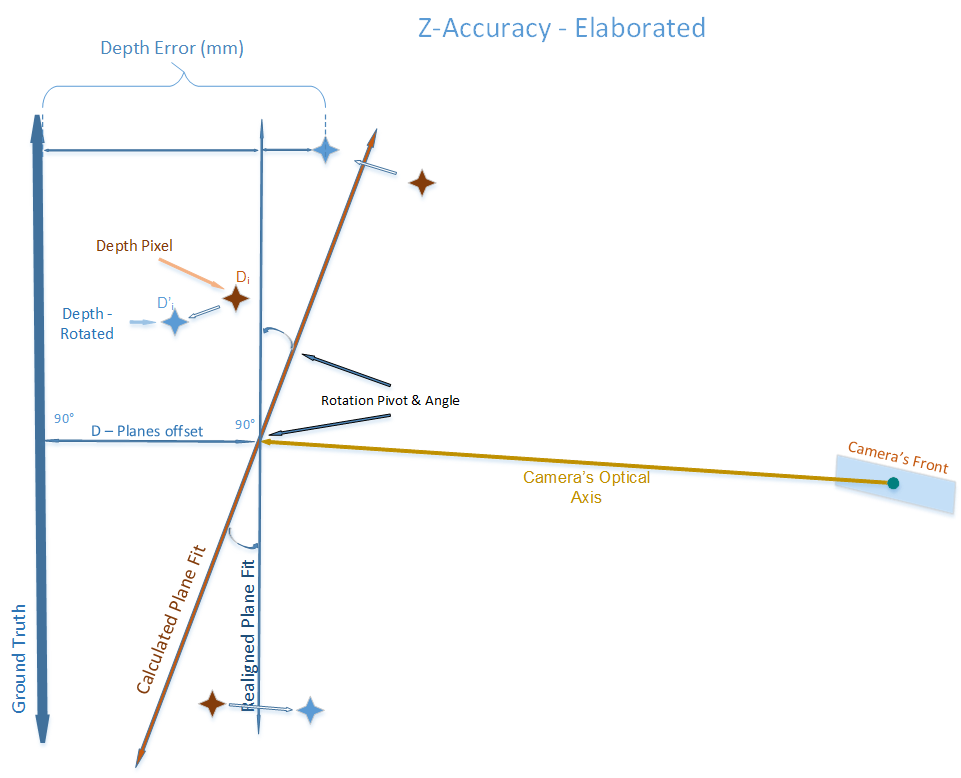
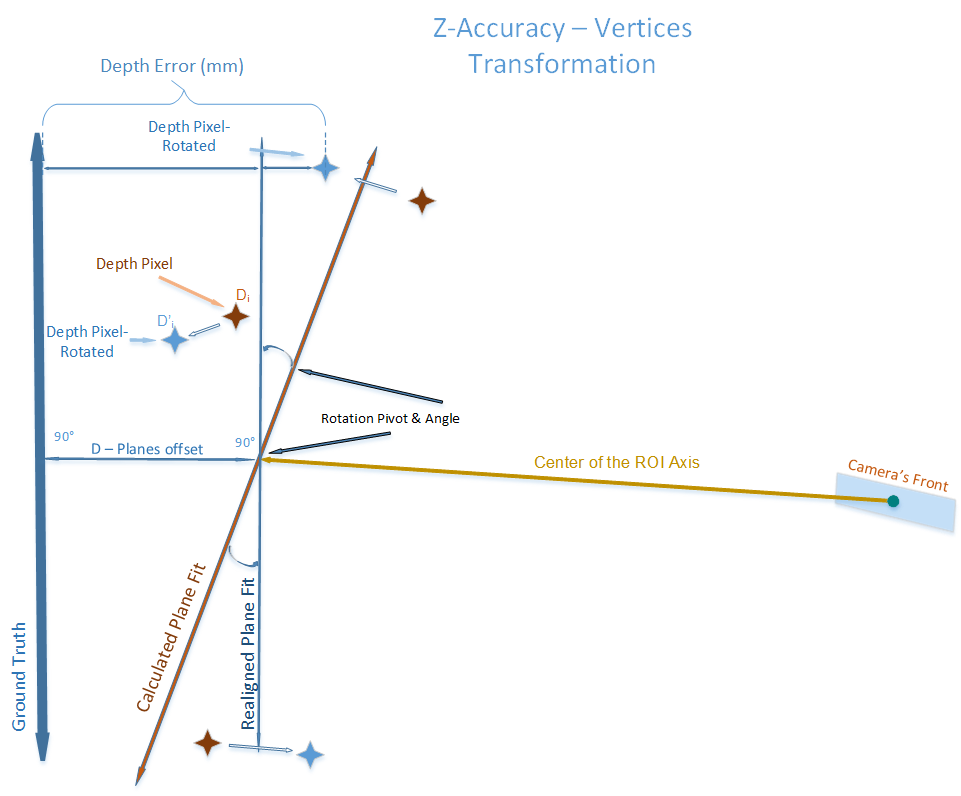
Modify Z-accuracy description due to modification of the Plane Fit pivoting point to center of ROI Revert version number to the trunk 2.4.10

diff --git a/include/librealsense2/rs.h b/include/librealsense2/rs.h
@@ -25,7 +25,7 @@ extern "C" {
 #define RS2_API_MAJOR_VERSION    2
 #define RS2_API_MINOR_VERSION    10
 #define RS2_API_PATCH_VERSION    4
-#define RS2_API_BUILD_VERSION    2
+#define RS2_API_BUILD_VERSION    0
 
 #define STRINGIFY(arg) #arg
 #define VAR_ARG_STRING(arg) STRINGIFY(arg)

diff --git a/tools/depth-quality/readme.md b/tools/depth-quality/readme.md
@@ -2,17 +2,21 @@
 
 <p align="center"><img src="https://raw.githubusercontent.com/wiki/IntelRealSense/librealsense/res/depth-quality-glimpse.gif" /></p>
 
+
 ## Overview
 
 This application allows you to test the camera’s depth quality, including: Z-Accuracy, Sub-Pixel and Z RMS errors (spatial noise) and Fill Rate.
 You should be able to easily get and interpret several of the depth quality metrics, or record and save the data for offline analysis.
 <br>Please refer to [RealSense DepthQualityTesting White Paper](https://www.intel.com/content/dam/support/us/en/documents/emerging-technologies/intel-realsense-technology/RealSense_DepthQualityTesting.pdf) for further information.
 
+
 ## Quick Start
 * Position the depth camera within a range of 0.3 - 2 meter from a flat non-reflective surface.
 * Aim the camera to the target and hold it steady for several seconds till the tool is able to recognize the surface (the yellow grid in 3D view).
 * Adjust the camera using the "Angle" metric to minimize the skew and make it as  perpendicular to the surface as possible.
 * Inspect the calculated depth quality metrics, expand the metric properties to get more in-depth info.
+* In order to get Z-Accuracy, enable the "Ground Truth" field in UI and modify it with the value obtained/measured with external tools
+* Click on "Start_record" to collect both the metrics and the raw data for offline analysis.  
 
 ## Features
 * 2D/3D Depth View
@@ -28,11 +32,15 @@ You should be able to easily get and interpret several of the depth quality metr
 * Export metrics and device configuration
 * Depth Sensor controls
 
-## Metrics elaborated
+## Depth Metrics elaborated
 ![](./res/Zi_ZPi.png)
 
+### Fill Rate
+the percentage of valid (non-zero) pixels within the user-defined Region of Interest (ROI) area.
+
 ### Plane Fit RMS Error
-_Dist<sub>i</sub>_ - Distance from pixel coordinates to the Plane Fit (mm)  
+the metrics represents depth pixels deviation from the calculated Plane Fit.
+_Dist<sub>i</sub>_ - Distance from depth pixel coordinates to the Plane Fit (mm).  
 ![](./res/z_error_rms.gif)
 
 ### Sub-Pixel RMS Error
@@ -48,10 +56,10 @@ _D<sub>i</sub>_ - Disparity value of i-th pixel in the ROI (pixel)
 
 ### Z Accuracy
 ![](./res/z_accuracy.png)  
-_RotationPivot<sub>x,y,z</sub>_ - Intersection point between the Camera's optical axis (principal point) and the Fitted Plane  
+_RotationPivot<sub>x,y,z</sub>_ - Intersection point between the center of the depth censor's ROI  and the Fitted Plane  
 _PlanesOffset<sub>mm</sub>_ - Distance (signed) from the Fitted to the Ground Truth planes (mm)  
-_D<sub>i</sub>_ - Distance (signed) from pixel coordinates to the Fitted Plane (mm)  
-_D'<sub>i</sub>_ - Distance from the rotated _D<sub>i</sub>_ coordinate to the Ground Truth Plane (mm)  
+_D<sub>i</sub>_ - Distance (signed) from a depth vertex to the Fitted Plane (mm)  
+_D'<sub>i</sub>_ - Z-error: Distance (signed) from the rotated _D<sub>i</sub>_ coordinate to the Ground Truth Plane (mm)  
 _GT_ - Ground Truth distance to the wall (mm)  
 ![](./res/z_accuracy_d_rotated.gif)  
 ![](./res/z_accuracy_percentage.gif)
